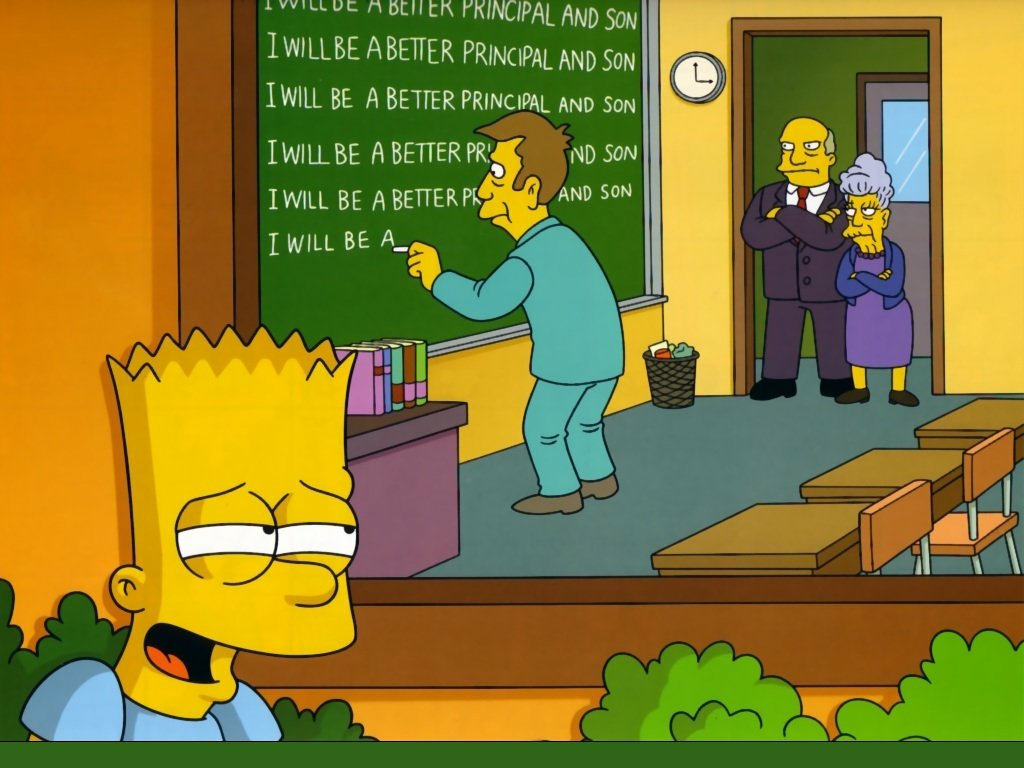
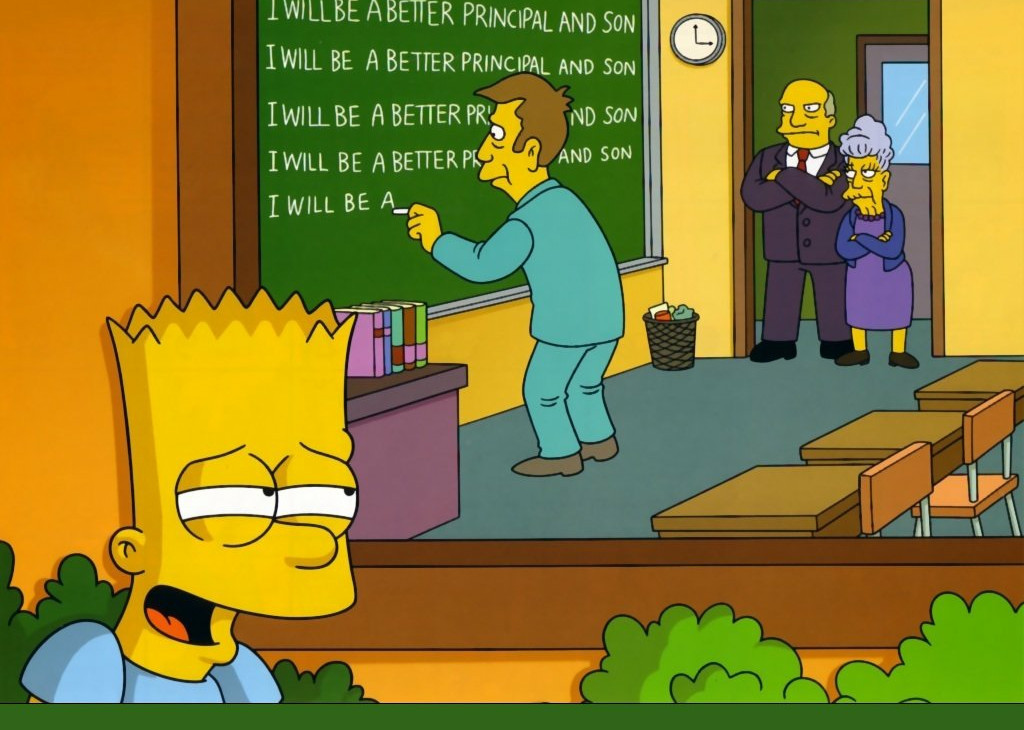
easter egg last diapo

diff --git a/presentation/includes/3-comment.tex b/presentation/includes/3-comment.tex
@@ -497,40 +497,17 @@ Revoir les méthodes d'apprentissages afin de profiter pleinement des TIC dans n
   \footlineextra{\cite{interview_papert}}  
 \end{frame}
 
-\begin{frame}{Méthodes d'apprentissage}
-\begin{itemize}
-  \item Une personne motivée réussira à apprendre par elle même
-  \item Nécessité de constructions réelles pour l'assimilation (la construction / amélioration) des nouveaux concepts mentaux
-  \item Idée de bricoler les concept. Terme introduit Claude Lévi-Strauss dans \textit{La pensée sauvage}. % Le bricolage s'oppose à la pensée unique (méthode analytique) instruite dans le système éducatif traditionnel. Idée de bricolage (terme repris de Lévi-Strauss, Pensées sauvages) est de travailler sur du concret afin d'arriver à un résultat de manière détournée (comme le ferait un bon bricoleur).
-  \item L'ordinateur donne de nombreuses opportunités de bricolages.
-  \item Le constructionnisme s'oppose à l'insctructionnisme.
-  \begin{description}
-    \item[Instructionnisme : ]affirme la croyance que pour améliorer l'apprentissage il faut développer l'instruction (enseigner mieux).
-    \item[Constructionnisme : ]favoriser le plus grand apprentissage avec le moins d'enseignement possible.
-    \end{description}
-    \og{}Le savoir dont les enfants ont le plus besoin est celui qui leur permet d'en acquérir davantage\fg (Papert p.141).
-\end{itemize}
-\end{frame}
-
-\begin{frame}{Concrètement}
-\begin{itemize}
-  \item D'abord confronter l'élève à la problématique avant de lui enseigner les concepts abstraits
-  \item Réaliser des projets plutôt que résoudre des problèmes
-  \item 
-\end{itemize}
-\end{frame}
-
-\begin{frame}{Méthodes d'apprentissage}
-  \begin{block}{Prise en compte des avancées en neurosciences}
-    \begin{itemize}
-    \item faire un résumé en fin de cours
-    \item création de carte mentale \\[10pt]
-    \end{itemize}
-  \end{block}
-    
-  \begin{center}
-    \includegraphics[width=.6\textwidth]{../resources/illustrations/mindmap.jpg}
-  \end{center}
-
-  \footlineextra{\cite{neurosup}}
-\end{frame}
+%\begin{frame}{Méthodes d'apprentissage}
+%\begin{itemize}
+%  \item Une personne motivée réussira à apprendre par elle même
+%  \item Nécessité de constructions réelles pour l'assimilation (la construction / amélioration) des nouveaux concepts mentaux
+%  \item Idée de bricoler les concept. Terme introduit Claude Lévi-Strauss dans %\textit{La pensée sauvage}. % Le bricolage s'oppose à la pensée unique (méthode analytique) instruite dans le système éducatif traditionnel. Idée de bricolage (terme repris de Lévi-Strauss, Pensées sauvages) est de travailler sur du concret afin d'arriver à un résultat de manière détournée (comme le ferait un bon bricoleur).
+%  \item L'ordinateur donne de nombreuses opportunités de bricolages.
+%  \item Le constructionnisme s'oppose à l'insctructionnisme.
+%  \begin{description}
+%    \item[Instructionnisme : ]affirme la croyance que pour améliorer l'apprentissage il faut développer l'instruction (enseigner mieux).
+%    \item[Constructionnisme : ]favoriser le plus grand apprentissage avec le moins d'enseignement possible.
+%    \end{description}
+%    \og{}Le savoir dont les enfants ont le plus besoin est celui qui leur permet d'en acquérir davantage\fg (Papert p.141).
+%\end{itemize}
+%\end{frame}

diff --git a/presentation/includes/4-ccl.tex b/presentation/includes/4-ccl.tex
@@ -13,12 +13,28 @@
   \end{itemize}
 \end{frame}
 
+\begin{frame}{Concrètement}
+\begin{itemize}
+  \item D'abord confronter l'élève à la problématique avant de lui enseigner les concepts abstraits
+  \item Réaliser des projets plutôt que résoudre des problèmes
+  \item 
+\end{itemize}
+\end{frame}
+
 \begin{frame}{Ouverture}
-  \begin{block}{Neurosciences}
+  \vfill
+    \begin{block}{Neurosciences}
     \begin{itemize}
-      \item Neurosup, projet incluant des méthodes éducatives en se basant sur les savoirs des neurosciences.
+    \item Faire un résumé en fin de cours
+    \item Création de carte mentale
     \end{itemize}
   \end{block}
+  \vfill
+  \begin{center}
+    \includegraphics[width=.6\textwidth]{../resources/illustrations/mindmap.jpg}
+  \end{center}
+    \vfill
+  \footlineextra{\cite{neurosup}}
 \end{frame}
 
 \begin{frame}
@@ -27,6 +43,7 @@
 	Merci pour votre attention !
 	
 	Avez-vous des questions ?
+	\includegraphicsabsolute{../resources/illustrations/seymour_skinner_2}{4cm}{.3cm}{6cm}
 \end{center}
 \end{frame}
 

diff --git a/presentation/apprentissage.tex b/presentation/apprentissage.tex
@@ -148,6 +148,9 @@ morekeywords={*,subsection,make title,tableofcontents,include graphics}
 \bibliography{../Bib.bib}
 \end{frame}
 
+\begin{frame}
+  \includegraphicsabsolute{../resources/illustrations/seymour_skinner}{13cm}{-0.01cm}{.67cm}
+\end{frame}
 \end{document}
 
 
